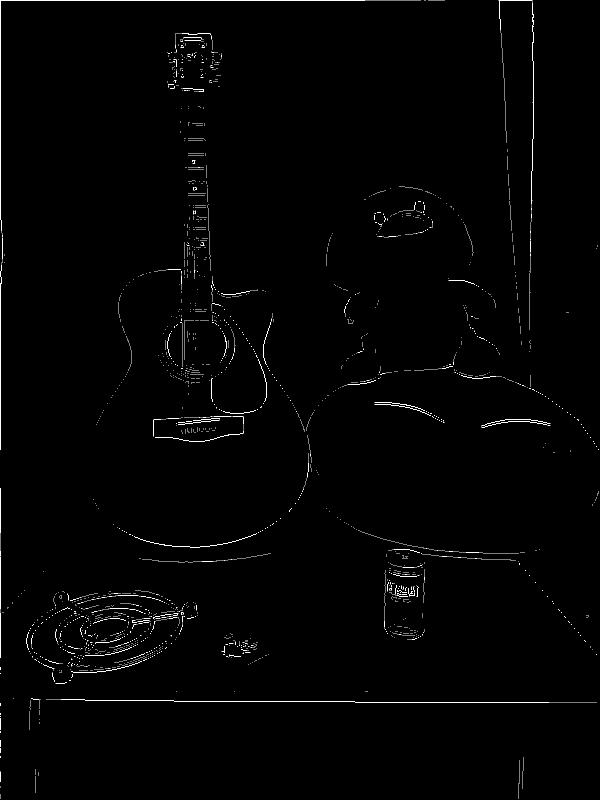
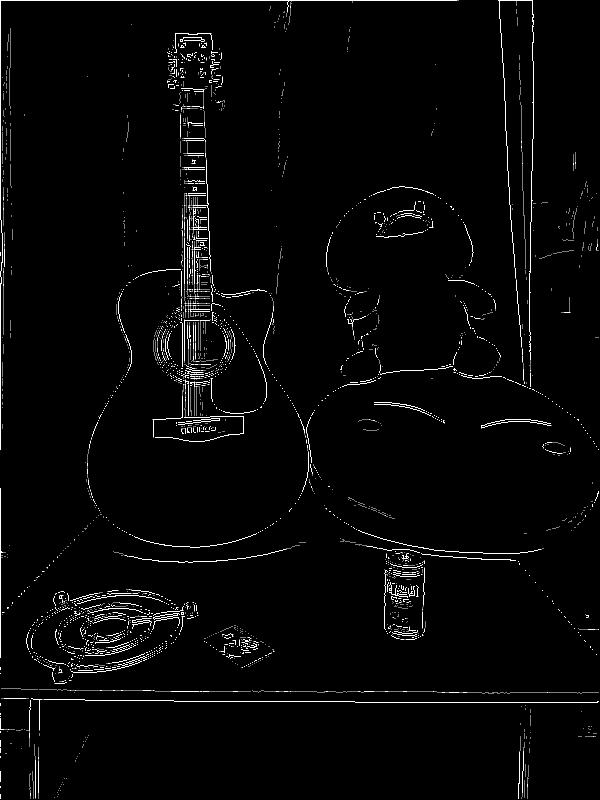
Final_v3

diff --git a/gradient.py b/gradient.py
@@ -35,6 +35,14 @@ def Get_Derivative_Filter(gradient:str, size=None, sigma=None)->tuple:
                             [ 0, 0, 0],
                             [-1,-1,-1]])
         return (filter_x,filter_y)
+    elif gradient == "Robert":
+        filter_x = np.array([[0, 0, -1],
+                             [0, 1, 0],
+                             [0, 0, 0]])
+        filter_y = np.array([[-1, 0, 0],
+                             [0, 1, 0],
+                             [0, 0, 0]])
+        return (filter_x,filter_y)
     elif gradient == "Scharr":
         filter_x = np.array([[-3, 0, 3],
                              [-10,0,10],
